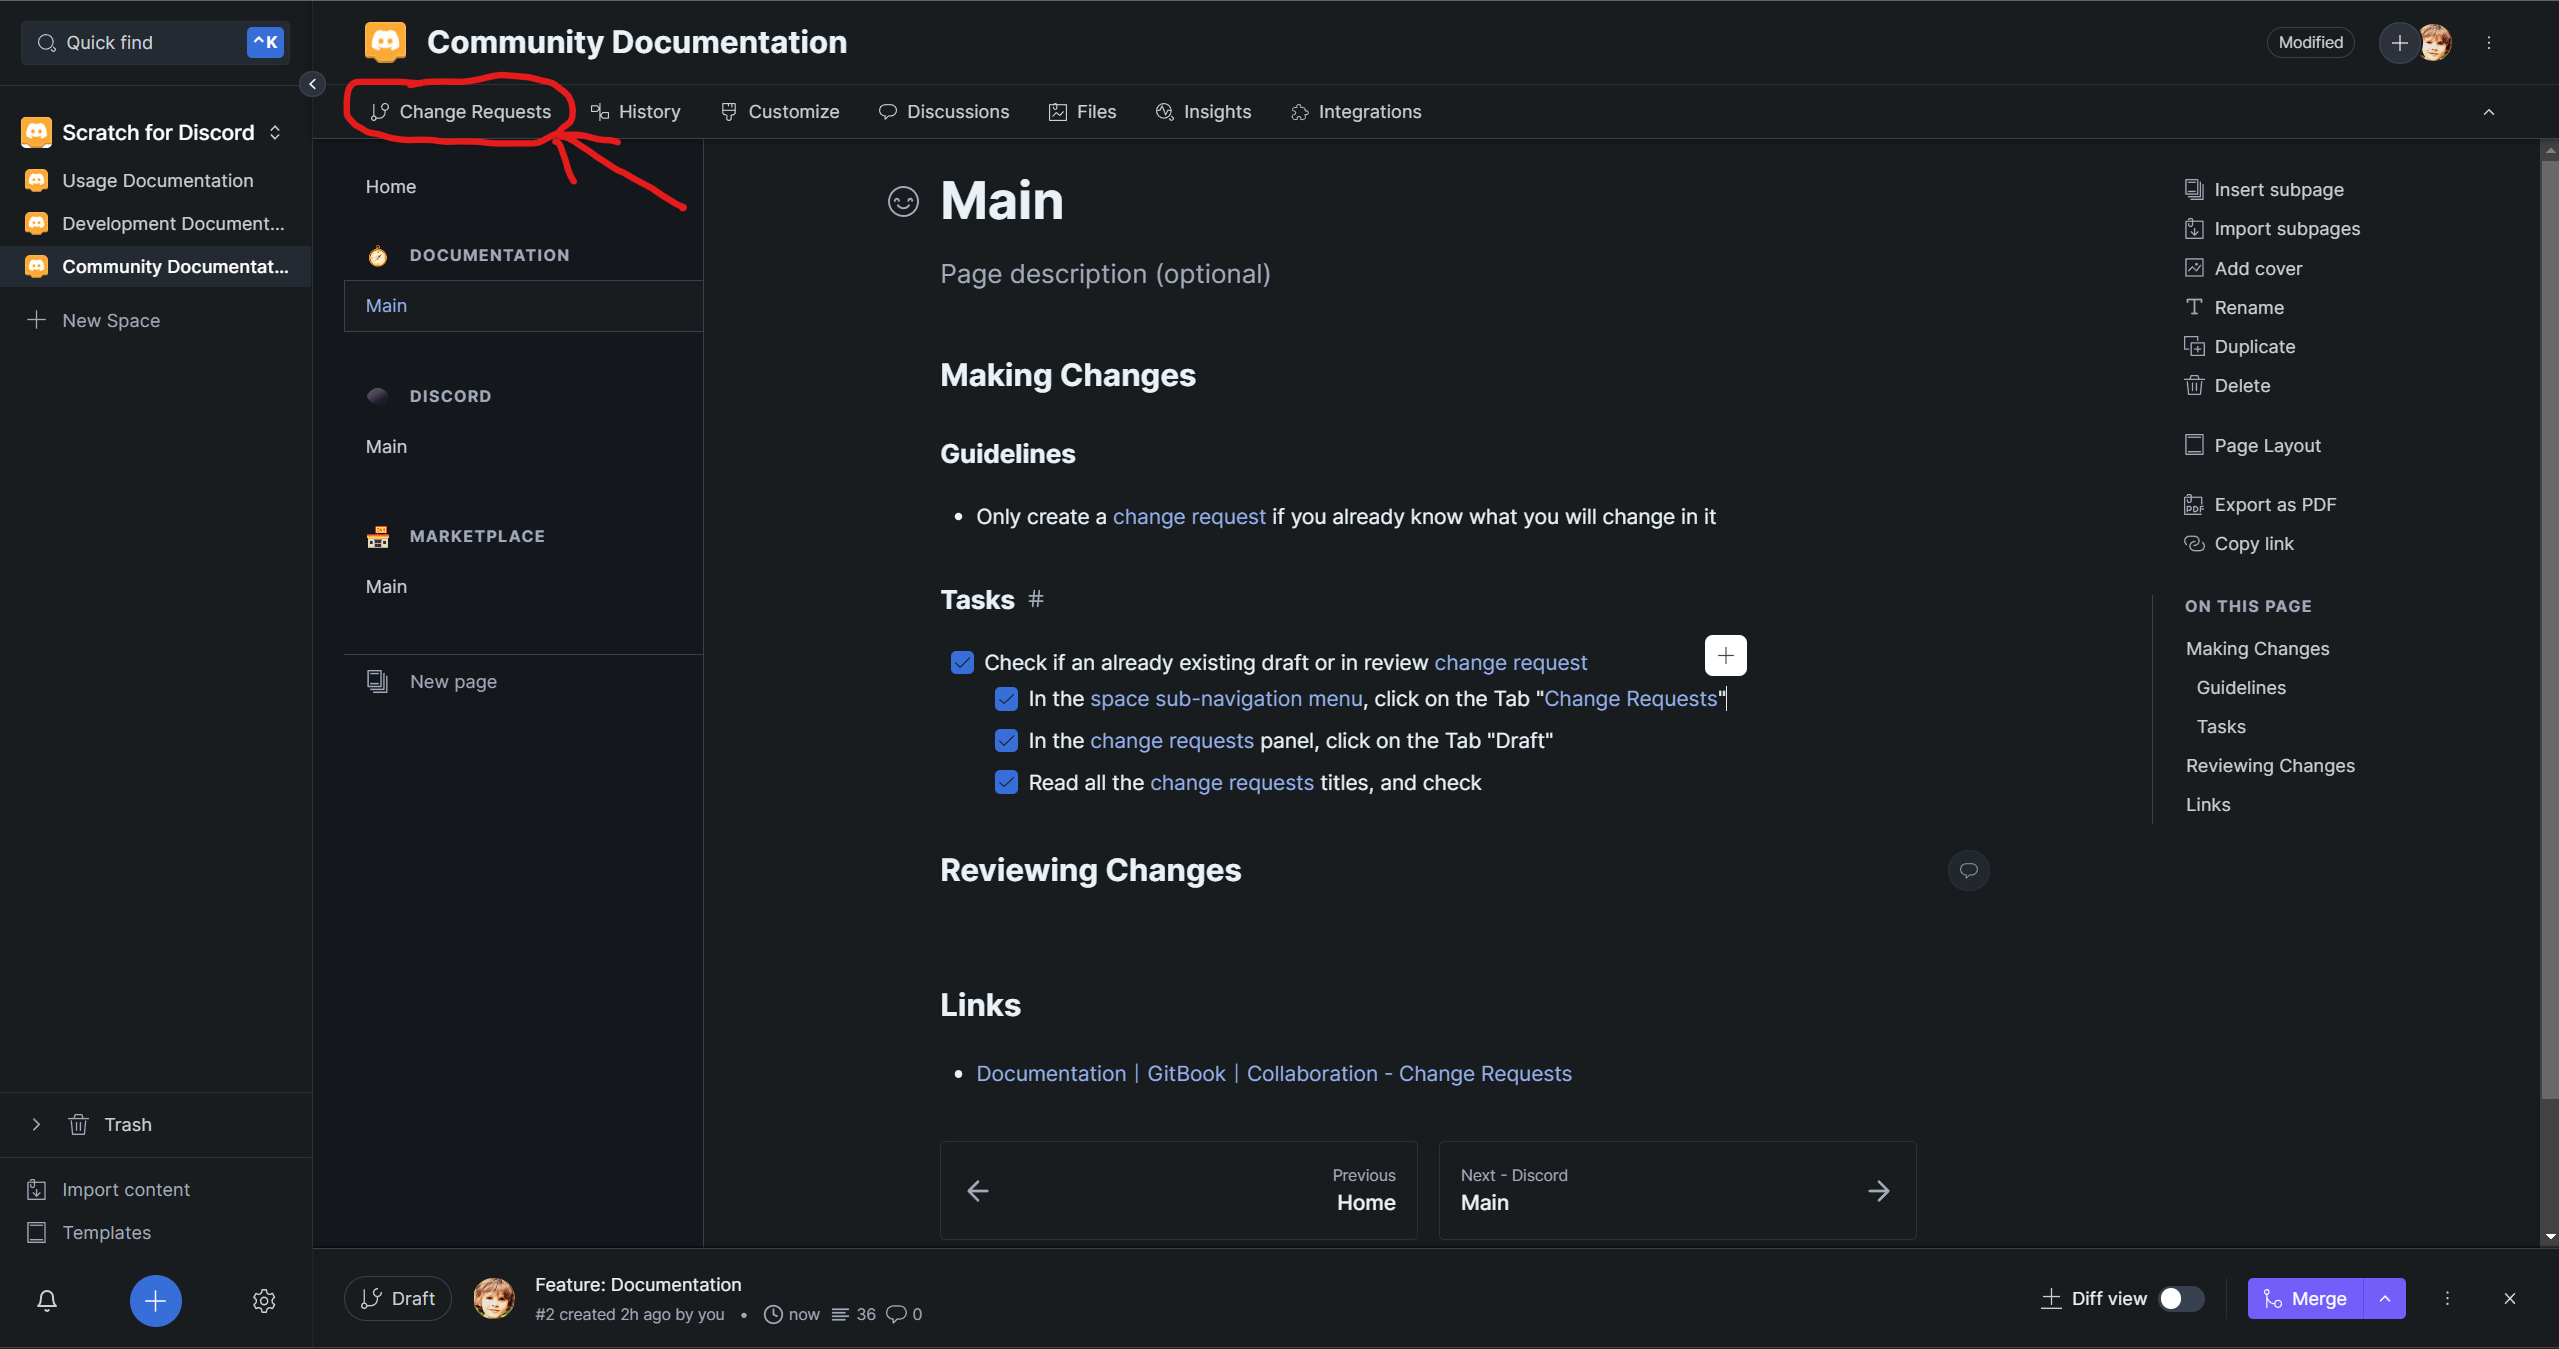
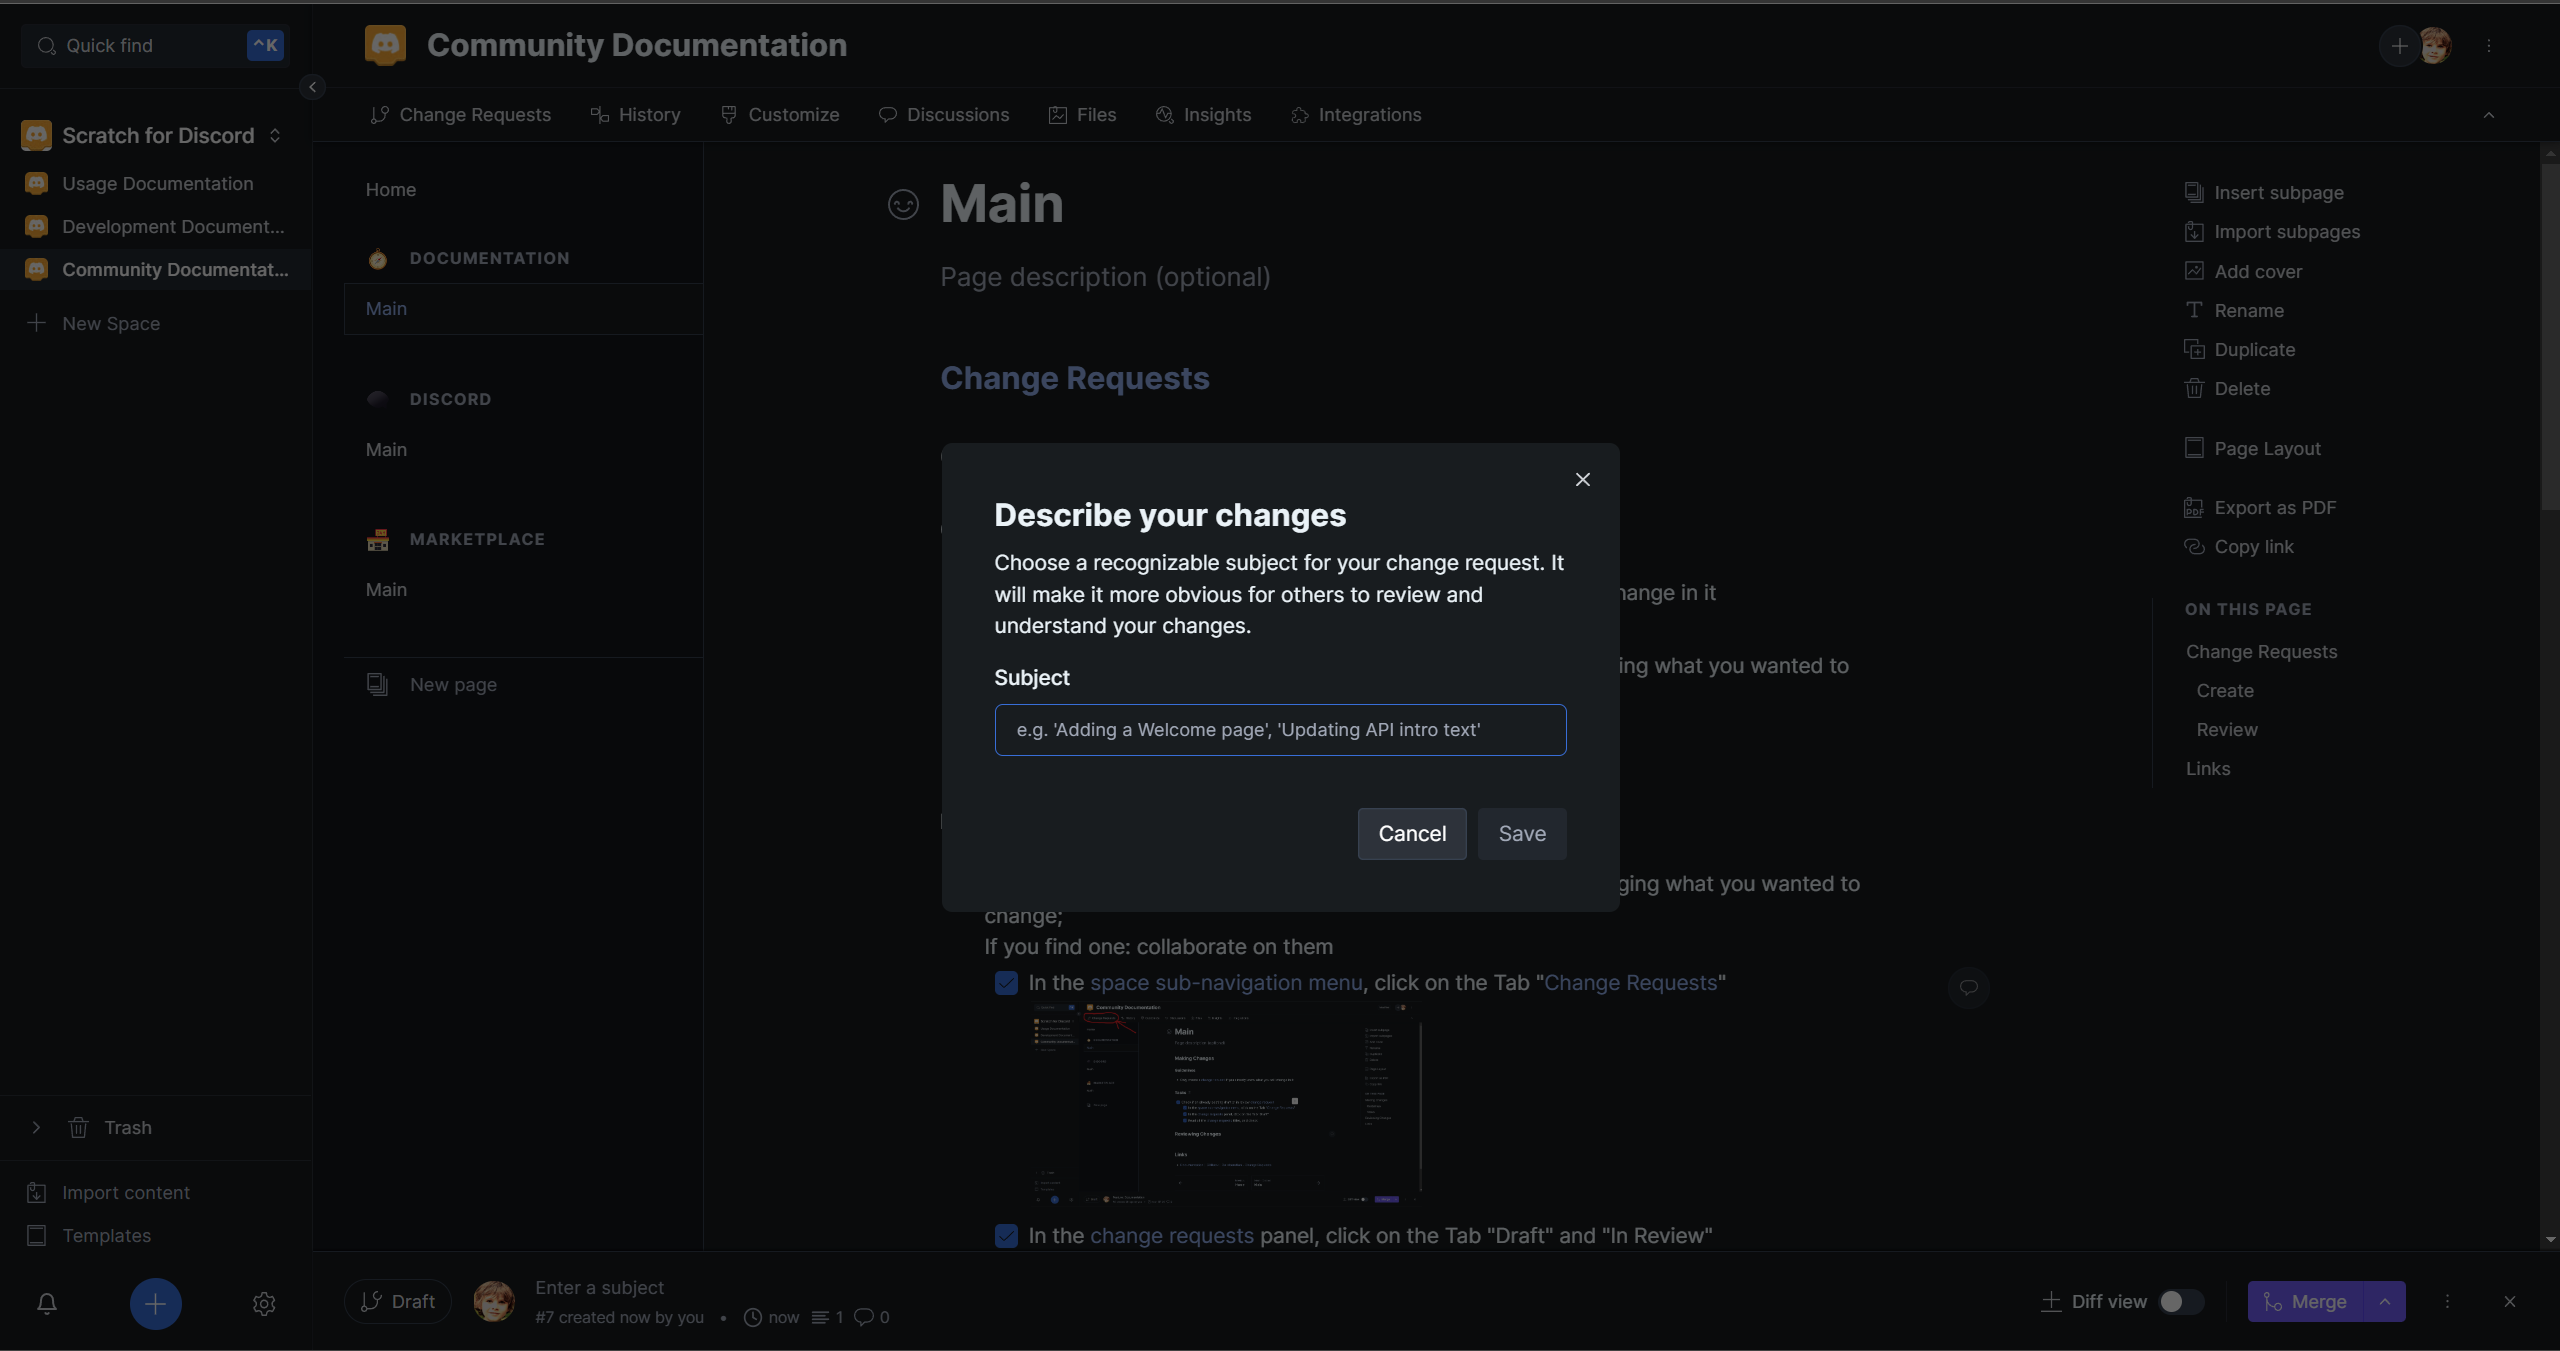
GitBook: [#5] Feature: Documentation

diff --git a/doc/main.md b/doc/main.md
@@ -2,26 +2,39 @@
 
 ## [Change Requests](https://docs.gitbook.com/getting-started/collaboration/change-requests)
 
-### Create <a href="#make.changes" id="make.changes"></a>
-
-#### Guidelines
+### Guidelines
 
 * Only create a [change request](https://docs.gitbook.com/getting-started/collaboration/change-requests) if you already know what you will change in it
 * Avoid conflicts:\
   If there is any already existing open [change request](https://docs.gitbook.com/getting-started/collaboration/change-requests) that is changing what you wanted to change, collaborate on them
-* Don't forget to [archive](https://docs.gitbook.com/getting-started/collaboration/change-requests#archiving-a-change-request) obsolete or accidental [change requests](https://docs.gitbook.com/getting-started/collaboration/change-requests)&#x20;
+* Don't forget to [archive](https://docs.gitbook.com/getting-started/collaboration/change-requests#archiving-a-change-request) obsolete or accidental [change requests](https://docs.gitbook.com/getting-started/collaboration/change-requests)
+* #### [Change request](https://docs.gitbook.com/getting-started/collaboration/change-requests) subject
+  * Write it before making any changes
+  * #### Naming
+    * Start it with its [label](https://github.com/scratch-for-discord/Documentation\_Usage/labels) ([<mark style="background-color:green;">`Feature`</mark>](https://github.com/scratch-for-discord/Documentation\_Usage/labels/Feature)/[<mark style="background-color:blue;">`Enhance`</mark>](https://github.com/scratch-for-discord/Documentation\_Usage/labels/Enhance)/[<mark style="background-color:orange;">`Fix`</mark>](https://github.com/scratch-for-discord/Documentation\_Usage/labels/Fix)/[<mark style="background-color:yellow;">`Update`</mark>](https://github.com/scratch-for-discord/Documentation\_Usage/labels/Update)/[<mark style="background-color:red;">`Deprecate`</mark>](https://github.com/scratch-for-discord/Documentation\_Usage/labels/Deprecate))
+    * Following by "`:` "
+    * Following by the page path of the [change request](https://docs.gitbook.com/getting-started/collaboration/change-requests), separating sub-pages with "`﹣`"
+    * Following by "`︱`"
+    * Following by the section path of the page  of the [change request](https://docs.gitbook.com/getting-started/collaboration/change-requests), separating sub-sections with "`﹣`"
+    * **Example**: the [change request](https://docs.gitbook.com/getting-started/collaboration/change-requests) subject for this change is named\
+      "`Feature: Documentation﹣Main︱Change Requests﹣Guidelines`"
+
+### Create <a href="#make.changes" id="make.changes"></a>
 
 #### Procedure
 
+_Must be done while following_ [#guidelines](main.md#guidelines "mention")__
+
 * [x] Check for any already existing open [change request](https://docs.gitbook.com/getting-started/collaboration/change-requests) that is changing what you wanted to change;\
   If you find one: collaborate on them
-  * [x] In the [space sub-navigation menu](https://docs.gitbook.com/getting-started/overview#space-sub-navigation), click on the Tab "[Change Requests](https://docs.gitbook.com/getting-started/collaboration/change-requests)"![](<../.gitbook/assets/image (2).png>)
+  * [x] In the [space sub-navigation menu](https://docs.gitbook.com/getting-started/overview#space-sub-navigation), click on the Tab "[Change Requests](https://docs.gitbook.com/getting-started/collaboration/change-requests)"![](<../.gitbook/assets/image (2) (1).png>)
   * [x] In the [change requests](https://docs.gitbook.com/getting-started/collaboration/change-requests) panel, click on the Tab "Draft" and "In Review"![](<../.gitbook/assets/image (4).png>)
   * [x] Read all the [change requests](https://docs.gitbook.com/getting-started/collaboration/change-requests) subjects to check for any already existing open [change request](https://docs.gitbook.com/getting-started/collaboration/change-requests) are already changing what you wanted to change;\
     If you find one: collaborate on them
 * [x] If every already existing open [change request](https://docs.gitbook.com/getting-started/collaboration/change-requests) are not changing what you wanted to change: \
   [create a change request](https://docs.gitbook.com/getting-started/collaboration/change-requests#creating-a-change-request)
-* [x] Develop the changes on the [change request](https://docs.gitbook.com/getting-started/collaboration/change-requests) following the [#guidelines](main.md#guidelines "mention")
+* [x] Write the subject of the [change request](https://docs.gitbook.com/getting-started/collaboration/change-requests) <img src="../.gitbook/assets/image.png" alt="" data-size="original"><img src="../.gitbook/assets/image (2).png" alt="" data-size="original">
+* [x] Develop the changes on the [change request](https://docs.gitbook.com/getting-started/collaboration/change-requests)
 * [x] When your [change request](https://docs.gitbook.com/getting-started/collaboration/change-requests) is production-ready, \
   [submit it](https://docs.gitbook.com/getting-started/collaboration/change-requests#submitting-a-change-request)
   * [x] If you are not sure that your [change request](https://docs.gitbook.com/getting-started/collaboration/change-requests) can be published right away: \
@@ -33,13 +46,15 @@
 
 #### Procedure
 
-* [x] In the [space sub-navigation menu](https://docs.gitbook.com/getting-started/overview#space-sub-navigation), click on the Tab "[Change Requests](https://docs.gitbook.com/getting-started/collaboration/change-requests)"![](<../.gitbook/assets/image (2).png>)
+_Must be done while following_ [#guidelines](main.md#guidelines "mention")__
+
+* [x] In the [space sub-navigation menu](https://docs.gitbook.com/getting-started/overview#space-sub-navigation), click on the Tab "[Change Requests](https://docs.gitbook.com/getting-started/collaboration/change-requests)"![](<../.gitbook/assets/image (2) (1).png>)
 * [x] In the [change requests](https://docs.gitbook.com/getting-started/collaboration/change-requests) panel, click on the Tab "In Review"![](<../.gitbook/assets/image (5).png>)
 * [x] Select the [change request](https://docs.gitbook.com/getting-started/collaboration/change-requests) you want to review
 * [x] Check for any other already existing open [change requests](https://docs.gitbook.com/getting-started/collaboration/change-requests) that could conflicting with your currently in-review [change request](https://docs.gitbook.com/getting-started/collaboration/change-requests);\
   If you find some: [resolve the conflicts](https://docs.gitbook.com/getting-started/collaboration/change-requests#resolving-merge-conflicts)
 * [x] Check if your currently in-review [change request](https://docs.gitbook.com/getting-started/collaboration/change-requests) content is qualitative enough and is following [#guidelines](main.md#guidelines "mention"):
-  * [x] If it is not the case: turn the [change request](https://docs.gitbook.com/getting-started/collaboration/change-requests) back to a draft [change request](https://docs.gitbook.com/getting-started/collaboration/change-requests)![](../.gitbook/assets/image.png)![](<../.gitbook/assets/image (3).png>)
+  * [x] If it is not the case: turn the [change request](https://docs.gitbook.com/getting-started/collaboration/change-requests) back to a draft [change request](https://docs.gitbook.com/getting-started/collaboration/change-requests)![](<../.gitbook/assets/image (6).png>)![](<../.gitbook/assets/image (3) (1).png>)
   * [x] If it is the case: [merge the change request](https://docs.gitbook.com/getting-started/collaboration/change-requests#merging-a-change-request)
 
 ## Links
